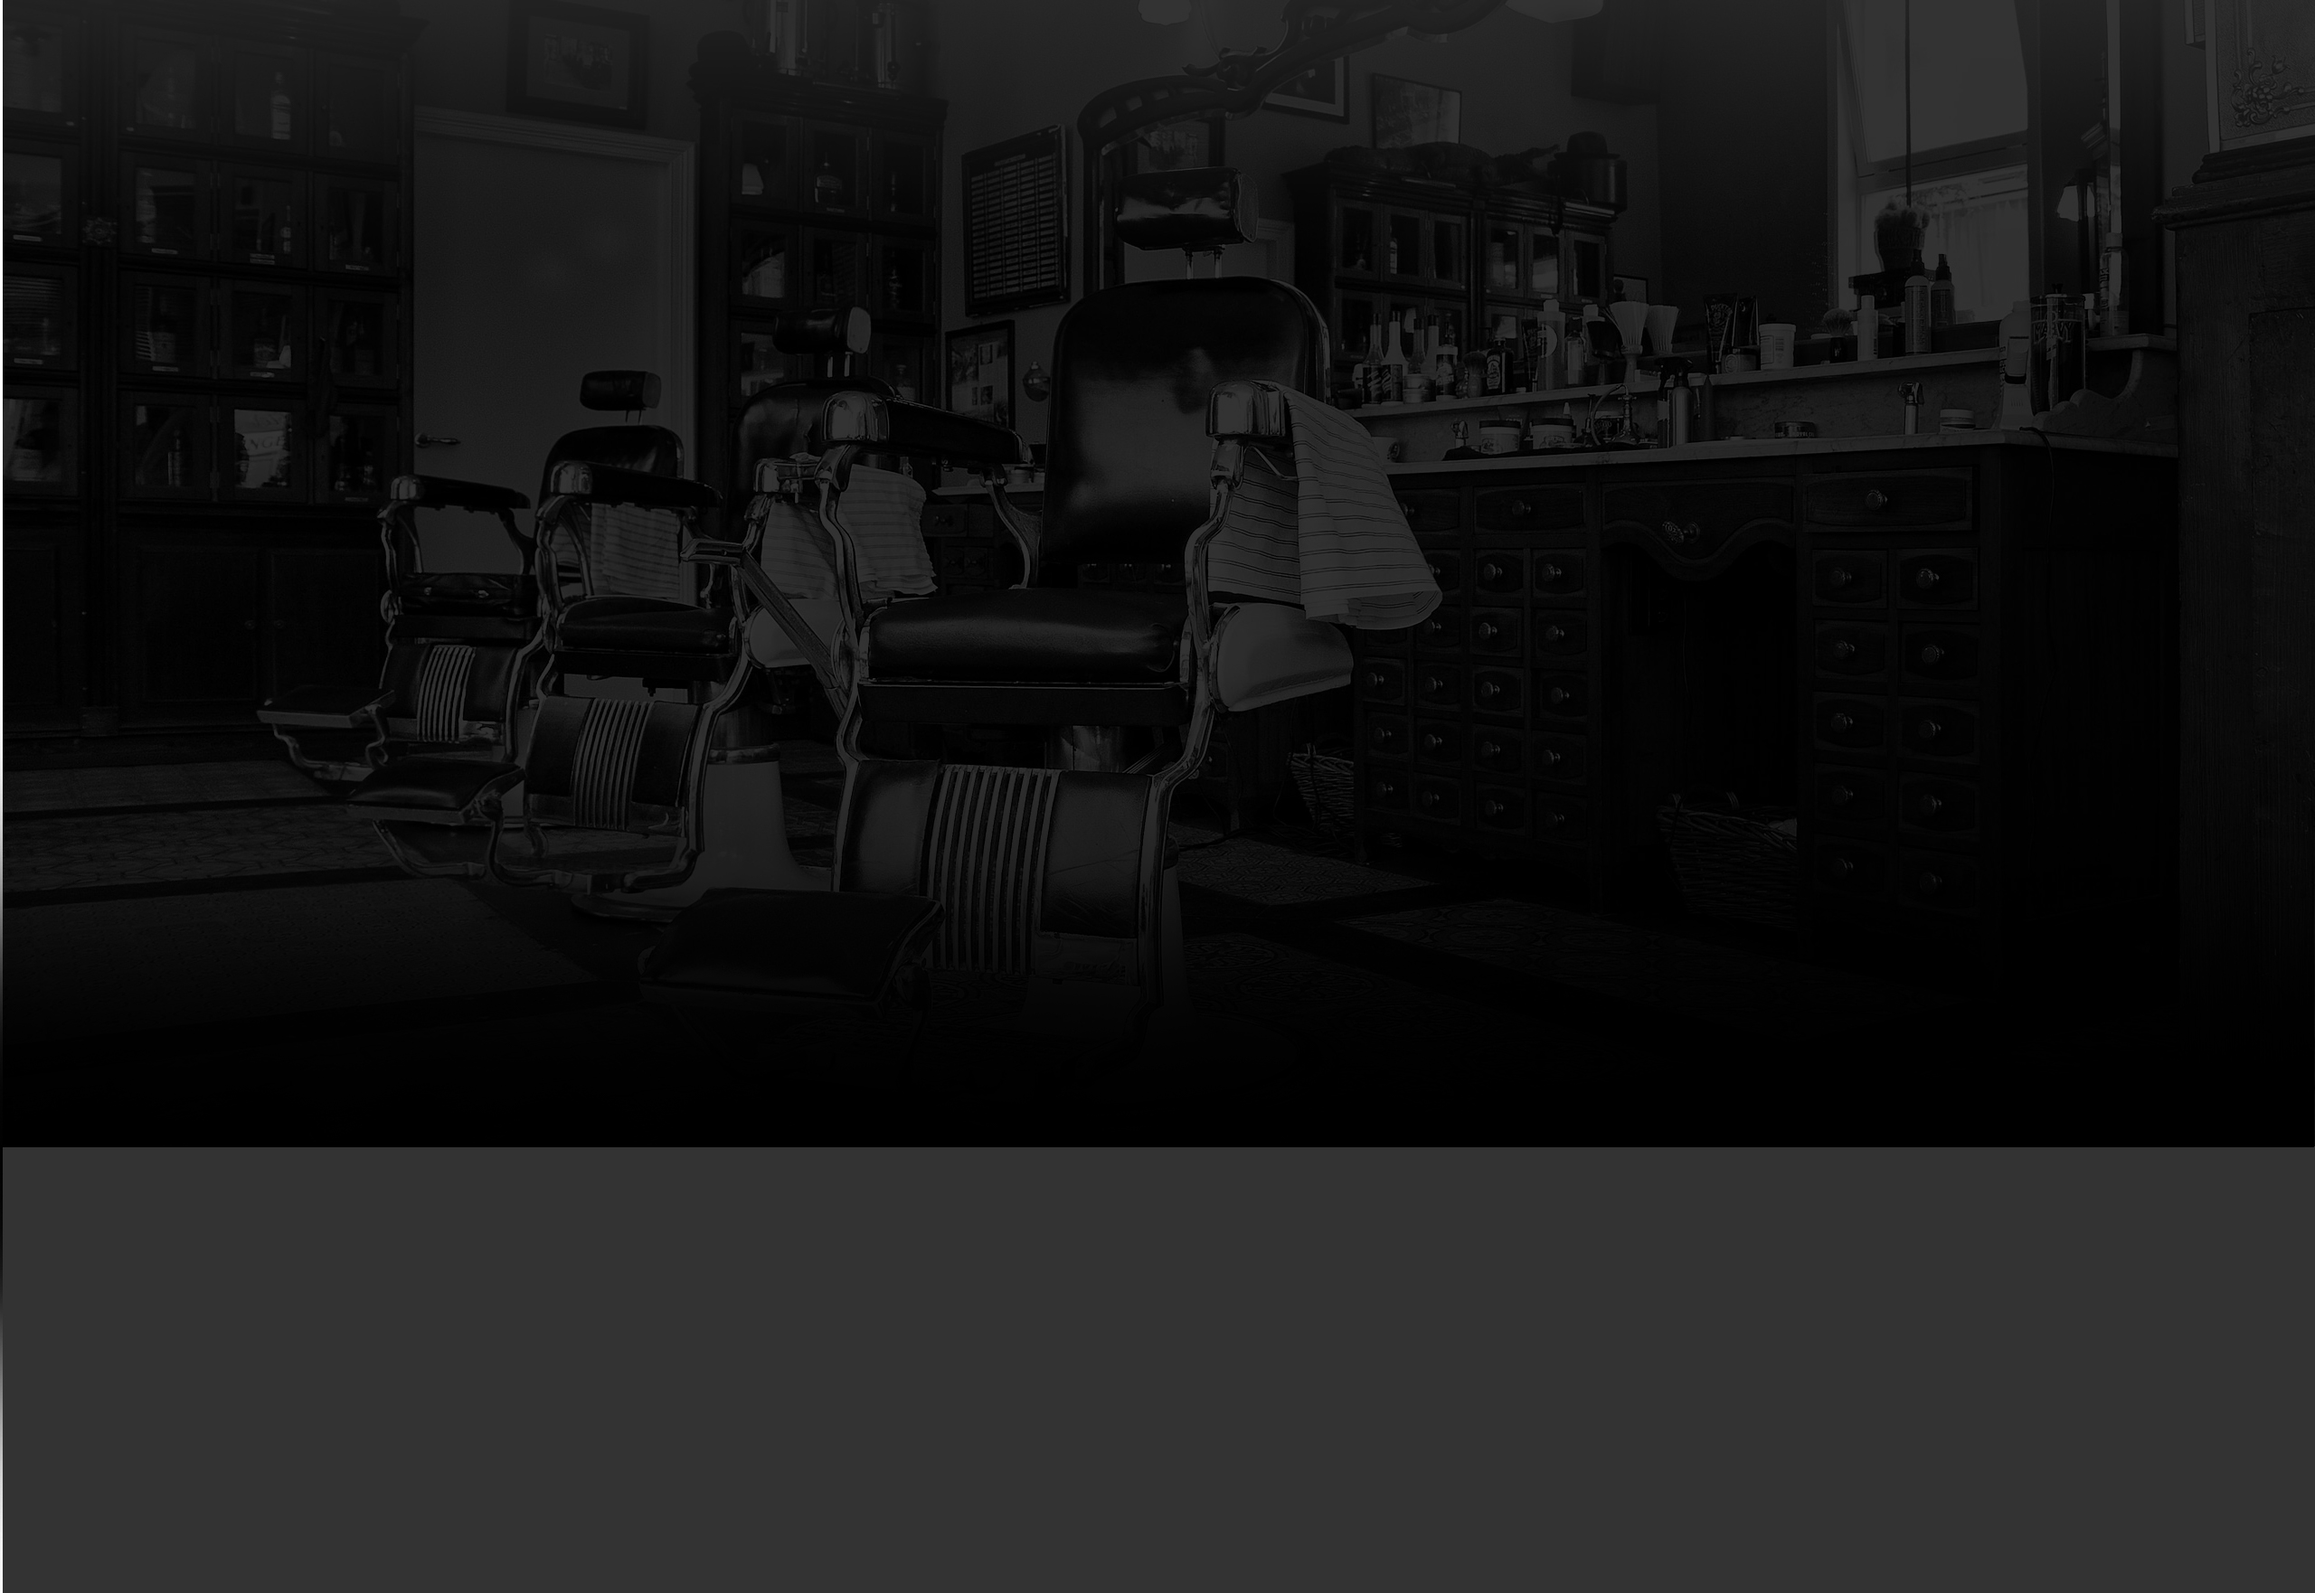
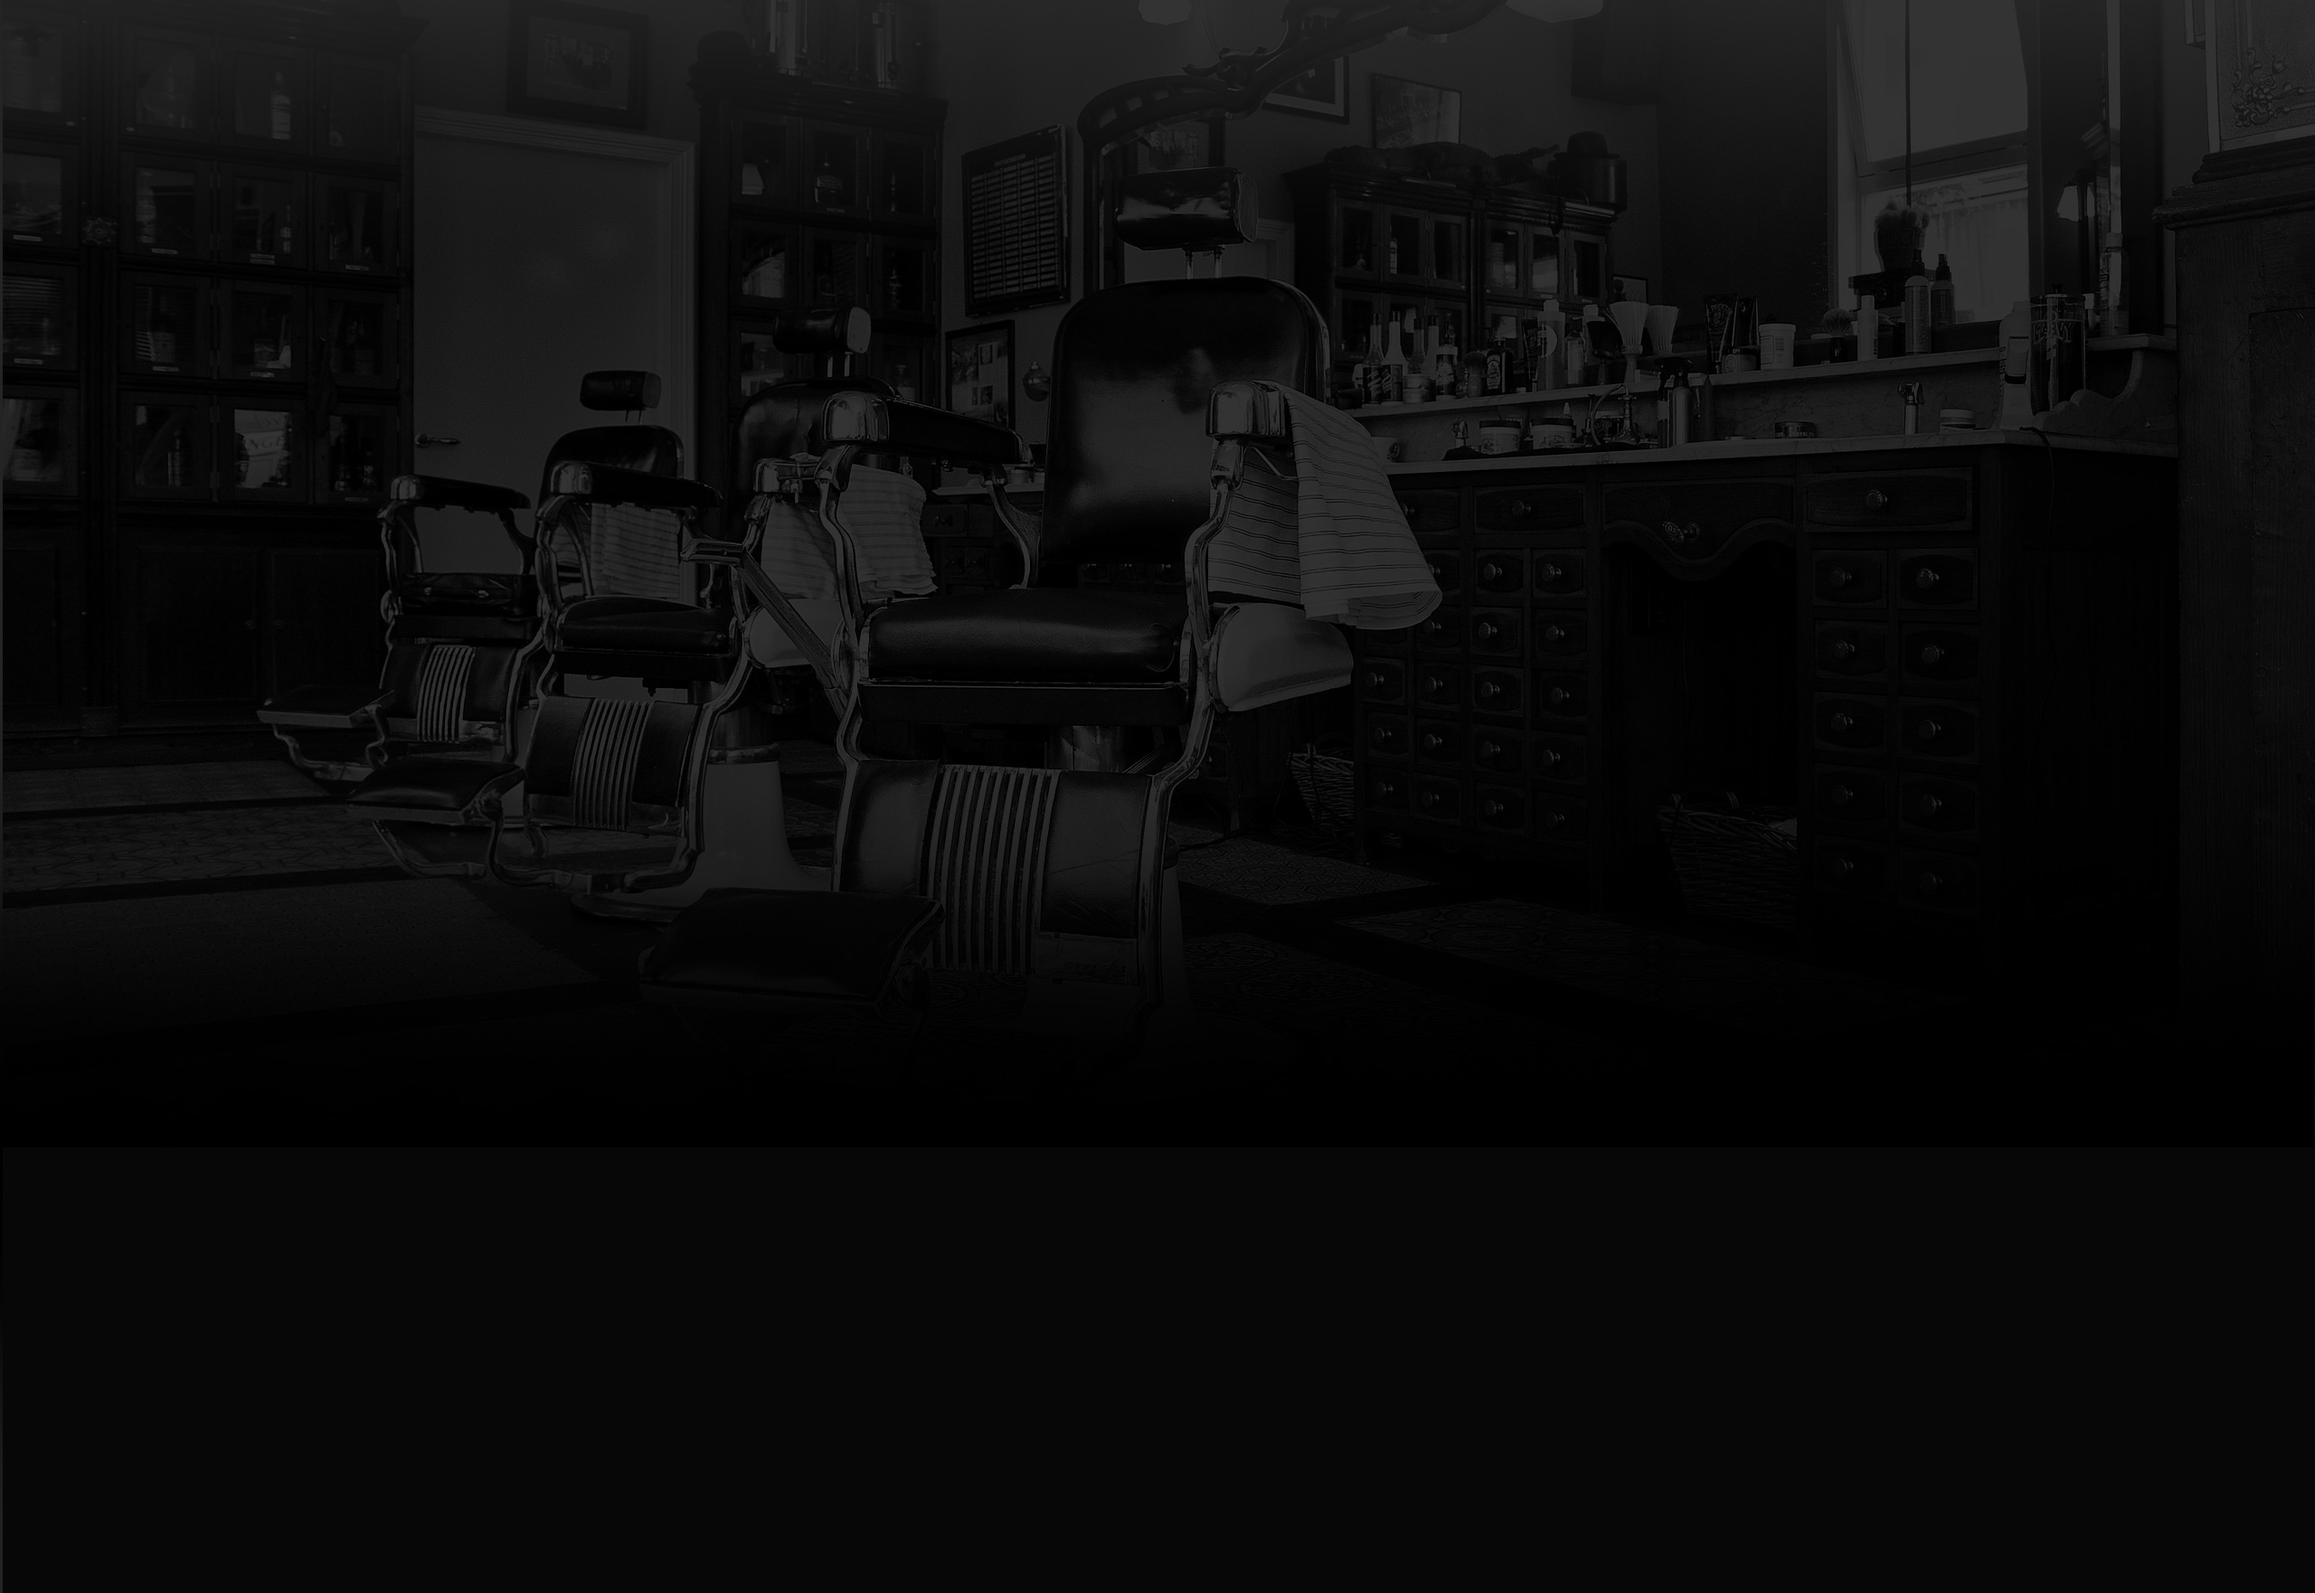
картинки+финал хедера

Changed region(s): [[0.0, 0.7179, 1.0, 1.0]]

diff --git a/css/main.css b/css/main.css
@@ -9,17 +9,22 @@
 }
 
 body{
-	min-width: 1122px;
-	min-height: 1750px;
+	min-width: 960px;
 	margin: 0;
 	padding: 0;
-	background: #000 url(../img/index-bg.jpg) no-repeat 50%;\
-	background-size: 1122px auto;
+	background: #242424 url(../img/index-bg.jpg) no-repeat center top;
 	color: #fff;
+	font-family: 'PT Sans Narrow', sans-serif;
+	font-size: 14px;
+	line-height: 24px;
+	font-weight: 700;
+	text-transform: uppercase;
 }
 
 .main-header{
 	margin-bottom: 60px;
+	color: #fff;
+	background-color: #000;
 }
 
 .container{
@@ -33,9 +38,67 @@ body{
 	float: left;
 }
 
+.main-nav ul{
+	margin: 0;
+	padding: 0;
+	list-style: none;
+	font-size: 0;
+}
+
+.main-nav li{
+	display: inline-block;
+	vertical-align: top;
+	font-size: 16px;
+	line-height: 20px;
+}
+
+.main-nav a{
+	display: block;
+	padding: 25px 20px;
+	color: #fff;
+	text-decoration: none;
+
+}
+
+.main-nav a:hover{
+	background: #242424;
+
+}
+
 .user-block{
-	width: 140px;
+	max-width: 140px;
 	float: right;
+}
+
+.user-block a{
+	position: relative;
+	display: inline-block;
+	padding: 25px 20px;
+	padding-left: 50px;
+	vertical-align: top;
+	font-size: 16px;
+	line-height: 20px;
+	color: #fff;
+	text-decoration: none;
+}
+
+.user-block a:hover{
+	background: #242424;
+}
+
+.user-block a::before{
+	content: "";
+	position: absolute;
+	top: 28px;
+	left: 20px;
+	width: 18px;
+	height: 16px;
+	background: url(../img/icon-login.png);
+	opacity: 0.3;
+}
+
+.user-block a:hover::before{
+	opacity: 1;
 }
 
 .main-logo{

diff --git a/index.html b/index.html
@@ -2,14 +2,15 @@
 <html lang="ru">
 <head>
 	<meta charset="UTF-8">
+	<link href="https://fonts.googleapis.com/css?family=PT+Sans+Narrow:400,700&amp;subset=cyrillic" rel="stylesheet">
 	<link rel="stylesheet" href="css/normalize.css">
 	<link rel="stylesheet" href="css/main.css">
 	<title>Барбершоп "Бородинский"</title>
 </head>
 <body>
-	<header class="main-header outline">
-		<div class="container cf outline">
-			<nav class="main-nav outline">
+	<header class="main-header">
+		<div class="container cf">
+			<nav class="main-nav">
 				<ul>
 					<li><a href="#">Информация</a></li>
 					<li><a href="#">Новости</a></li>
@@ -18,7 +19,7 @@
 					<li><a href="#">Контакты</a></li>
 				</ul>
 			</nav>
-			<div class="user-block outline"><a href="#">Вход</a></div>
+			<div class="user-block"><a href="#">Вход</a></div>
 		</div>
 	</header>
 	<main class="container">
@@ -56,7 +57,7 @@
 				<h2 class="index-content-title outline">Галерея</h2>
 				<div class="galery">
 					<figure class=".galery-content">
-						<img src="img/galery1.jpg" alt="Галерея">
+						<img src="img/galery.jpg" alt="Галерея">
 					</figure>
 					<button class="btn galery-prev">Назад</button>
 					<button class="btn galery-next">Вперёд</button>
